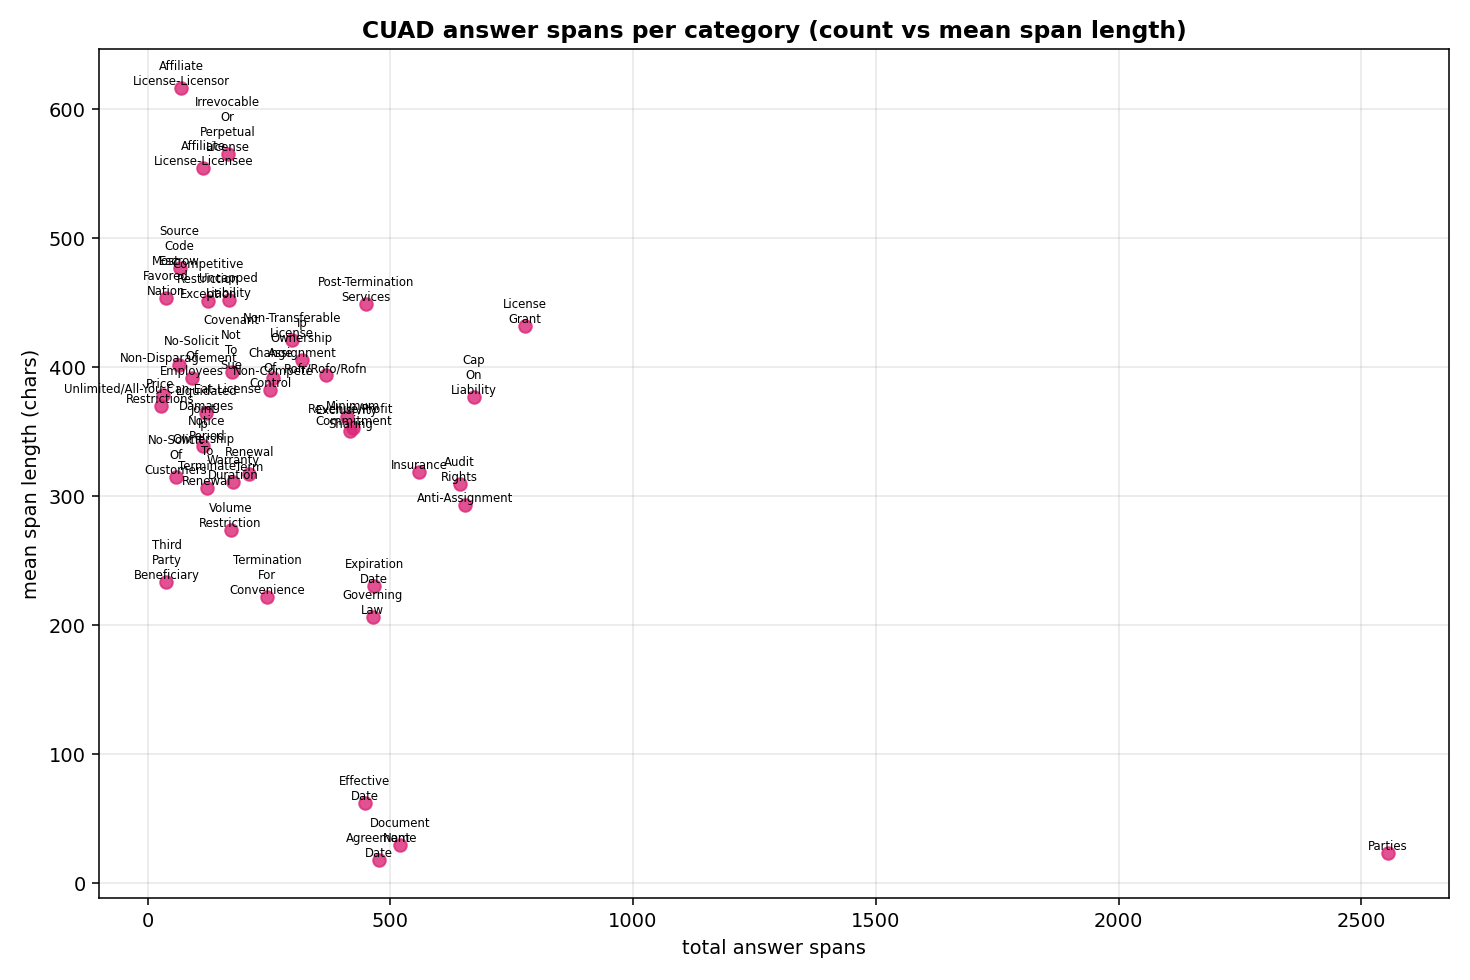
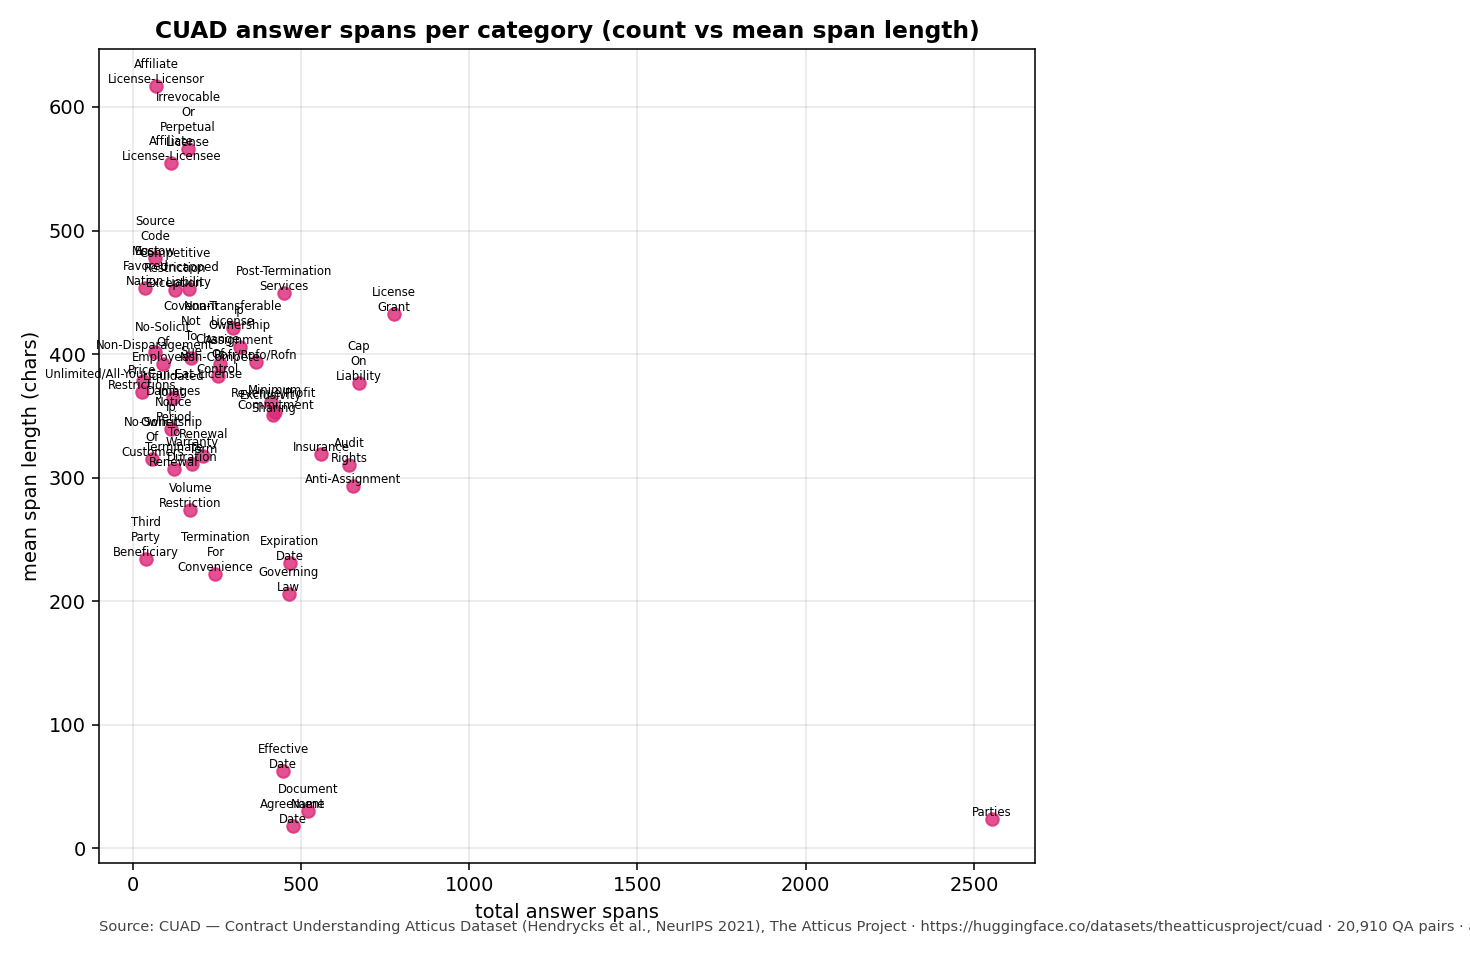
CHORE (KANBAN-014 follow-on): EDA figures 01-10 regenerated with CUAD dataset citations
- explore_cuad.py: _add_citation() footer (CUAD, Hendrycks et al., NeurIPS 2021,
  theatticusproject/cuad) on every figure; figure 01 retitled 'CUAD contract
  subclass distribution (25-family taxonomy, n=509)' + per-bar count labels
- self-contained data paths: CUAD_JSON prefers data/cuad_pdfs/CUAD_v1.json
  (sibling llm-mailroom path as fallback); subtype distribution reads verified
  experiment-log totals (SUBTYPE_FALLBACK, sums to 509) instead of the vanished
  subtype_distribution.json; figure 07 per-subtype lengths computed from
  aligned texts via title-derived 25-family matcher (503/510 matched)
- all 10 figures + data/eda/report.md regenerated (510/510 texts aligned);
  findings.md byte-identical (headline stats unchanged)
- CHANGELOG [Unreleased] entry added

diff --git a/scripts/eda/explore_cuad.py b/scripts/eda/explore_cuad.py
@@ -35,12 +35,83 @@ matplotlib.use("Agg")
 import matplotlib.pyplot as plt  # noqa: E402
 import numpy as np  # noqa: E402
 
-from src.cuad_ground_truth import CUAD_CATEGORIES  # noqa: E402
+from src.cuad_ground_truth import (  # noqa: E402
+    CUAD_CATEGORIES,
+    SUBTYPE_CUAD_FOLDERS,
+)
+from agents.sorter_agent import CONTRACT_SUBTYPES  # noqa: E402
 
 OUT = Path("data/eda")
 FIG = OUT / "figures"
-CUAD_JSON = Path("../llm-mailroom/data/cuad/CUAD_v1.json")
-SUBTYPE_JSON = Path("../llm-mailroom/data/cuad/subtype_distribution.json")
+# Repo-local corpus paths (`data/cuad_pdfs/` per its README — gitignored),
+# with the llm-mailroom mirror as fallback when the sibling repo is present.
+CUAD_JSON = Path("data/cuad_pdfs/CUAD_v1.json")
+CUAD_JSON_FALLBACK = Path("../llm-mailroom/data/cuad/CUAD_v1.json")
+
+# Dataset citation footer for every figure (KANBAN-014 follow-on).
+CUAD_CITE = ("Source: CUAD — Contract Understanding Atticus Dataset "
+             "(Hendrycks et al., NeurIPS 2021), The Atticus Project · "
+             "https://huggingface.co/datasets/theatticusproject/cuad")
+
+# Title -> 25-family subtype matcher for the per-subtype length stats. Patterns
+# are built from the taxonomy's CUAD folder names (`SUBTYPE_CUAD_FOLDERS`),
+# each family's `CONTRACT_SUBTYPES` label, and observed CUAD title variants;
+# longest match wins so multi-family titles route to the most specific family.
+_SUBTYPE_PATTERNS: dict[str, list[str]] = {}
+for _s in CONTRACT_SUBTYPES:
+    _key, _label = _s["key"], _s["label"]
+    _pats = [p.replace("_", " ") for p in SUBTYPE_CUAD_FOLDERS.get(_key, [])]
+    _pats += [_label]
+    if _key == "ip":
+        _pats += ["Intellectual Property"]
+    if _key == "joint_venture":
+        _pats += ["Joint Filing"]
+    if _key == "collaboration":
+        _pats += ["Cooperation"]
+    if _key == "non_compete_no_solicit":
+        _pats += ["Non-Compete", "No-Solicit", "Non-Disparagement"]
+    _SUBTYPE_PATTERNS[_key] = sorted({p for p in _pats if len(p) >= 6},
+                                     key=len, reverse=True)
+
+
+def _norm_pat(s: str) -> str:
+    return re.sub(r"[^a-z0-9]+", " ", s.lower())
+
+
+def _subtype_from_title(title: str) -> str | None:
+    """Best-effort 25-family subtype for a CUAD title (longest match wins)."""
+    t = _norm_pat(title)
+    best_key, best_len = None, 0
+    for key, pats in _SUBTYPE_PATTERNS.items():
+        for p in pats:
+            np_ = _norm_pat(p)
+            if np_ in t and len(np_) > best_len:
+                best_key, best_len = key, len(np_)
+    return best_key
+
+
+def _add_citation(fig, ax, note: str = "") -> None:
+    """Footer dataset citation on a figure (drawn below the axes)."""
+    txt = CUAD_CITE + (f" · {note}" if note else "")
+    ax.text(0, -0.07, txt, transform=ax.transAxes, fontsize=7.5,
+            color="#444", va="top")
+    fig.tight_layout(rect=[0, 0.03, 1, 1])
+
+# Ground-truth CUAD contract subclass counts (mailroom 25-family taxonomy) for
+# the 509-contract eval corpus (`mailroom-cuad-contracts-full`), derived from
+# the experiment-log per-subtype totals (sums to 509, verified). Used by
+# figure 01 and the report's corpus-composition table — the original
+# taxonomy-derived `subtype_distribution.json` no longer exists in either repo.
+SUBTYPE_FALLBACK = {
+    "maintenance": 34, "license": 33, "distributor": 32,
+    "strategic_alliance": 32, "sponsorship": 31, "development": 28,
+    "service": 28, "collaboration": 26, "endorsement": 24,
+    "joint_venture": 23, "co_branding": 22, "hosting": 20,
+    "outsourcing": 18, "supply": 18, "ip": 17, "manufacturing": 17,
+    "marketing": 17, "franchise": 15, "agency": 13,
+    "transportation": 13, "promotion": 12, "reseller": 12,
+    "consulting": 11, "affiliate": 10, "non_compete_no_solicit": 3,
+}
 
 PALETTE = ["#2563eb", "#7c3aed", "#db2777", "#059669", "#d97706", "#dc2626",
            "#0891b2", "#65a30d", "#9333ea", "#ea580c"]
@@ -68,15 +139,11 @@ BUDGETS = {"25k (small)": 25_000, "90k (chunk window)": 90_000,
 
 
 def _load_cuad() -> list[dict]:
-    if not CUAD_JSON.exists():
-        raise SystemExit(f"CUAD_v1.json not found at {CUAD_JSON}")
-    return json.load(open(CUAD_JSON))["data"]
-
-
-def _load_subtype_dist() -> dict:
-    if not SUBTYPE_JSON.exists():
-        raise SystemExit(f"subtype_distribution.json not found at {SUBTYPE_JSON}")
-    return json.load(open(SUBTYPE_JSON))
+    path = CUAD_JSON if CUAD_JSON.exists() else CUAD_JSON_FALLBACK
+    if not path.exists():
+        raise SystemExit(f"CUAD_v1.json not found at {CUAD_JSON} "
+                         f"(or {CUAD_JSON_FALLBACK})")
+    return json.load(open(path))["data"]
 
 
 def _load_full_texts() -> list[dict]:
@@ -109,7 +176,6 @@ def _category_from_question(q: str) -> str:
 
 def analyze() -> dict:
     docs = _load_cuad()
-    dist = _load_subtype_dist()
     cat_stats: dict[str, dict] = {
         c: {"yes_docs": 0, "answers": 0, "span_len": []} for c in CUAD_CATEGORIES
     }
@@ -206,8 +272,22 @@ def analyze() -> dict:
             denom = min(cat_stats[a]["yes_docs"], cat_stats[b]["yes_docs"])
             coocc_norm[a][b] = coocc[a][b] / denom if denom else 0.0
 
-    # per-subtype length table (median/min/max chars) from the taxonomy file
-    per_subtype = dist.get("per_subtype", {})
+    # per-subtype text-length table (median/min/max chars) from the aligned
+    # texts, grouped by the title-derived 25-family subtype (KANBAN-014
+    # follow-on; replaces the removed taxonomy-JSON dependency).
+    per_subtype_raw: dict[str, list[int]] = {}
+    for i, t in enumerate(texts):
+        sub = _subtype_from_title(titles[i])
+        if sub and t:
+            per_subtype_raw.setdefault(sub, []).append(len(t))
+    per_subtype: dict[str, dict] = {
+        k: {"count": len(v), "median_chars": int(np.median(v)),
+            "min_chars": min(v), "max_chars": max(v)}
+        for k, v in per_subtype_raw.items()
+    }
+    print(f"[info] subtype assigned for "
+          f"{sum(len(v) for v in per_subtype_raw.values())}/{len(docs)} "
+          f"contracts via title matching")
 
     return {
         "n_docs": len(docs), "n_qa": n_qa,
@@ -218,6 +298,7 @@ def analyze() -> dict:
         "redacted_text": redacted_text, "redact_hits": redact_hits,
         "redacted_titles": redacted_titles,
         "coocc": coocc, "coocc_norm": coocc_norm,
+        "subtype_dist": SUBTYPE_FALLBACK,
         "per_subtype": per_subtype,
     }
 
@@ -234,17 +315,22 @@ def make_figures(res: dict) -> None:
                          "axes.titleweight": "bold", "figure.facecolor": "white"})
     n = res["n_docs"]
 
-    # 1. Subtype distribution (from the taxonomy-derived distribution json)
-    dist = _load_subtype_dist()["distribution"]
-    items = sorted(dist.items(), key=lambda kv: -kv[1])
-    names = [k for k, _ in items][:25]
-    vals = [v for _, v in items][:25]
+    # 1. CUAD contract subclass distribution (mailroom 25-family taxonomy)
+    #    Data: ground-truth subtype counts of the 509-contract eval corpus
+    #    (`mailroom-cuad-contracts-full`, experiment-log per-subtype totals).
+    dist = res["subtype_dist"]
+    items = sorted(dist.items(), key=lambda kv: -kv[1])[:25]
+    names = [k for k, _ in items]
+    vals = [v for _, v in items]
     fig, ax = plt.subplots(figsize=(11, 5.5))
     ax.barh(names[::-1], vals[::-1], color=PALETTE[0], edgecolor="white")
-    ax.set_title("Contract subtype distribution (mailroom 25-family taxonomy)")
+    for y, v in enumerate(vals[::-1]):
+        ax.text(v + 0.4, y, str(v), va="center", fontsize=7, color="#333")
+    ax.set_title("CUAD contract subclass distribution "
+                 f"(25-family taxonomy, n={sum(vals)})")
     ax.set_xlabel("contracts")
     ax.grid(axis="x", alpha=0.3)
-    fig.tight_layout()
+    _add_citation(fig, ax, "n=509 contracts in the eval corpus")
     fig.savefig(FIG / "01_subtype_distribution.png", dpi=140)
     plt.close(fig)
 
@@ -257,7 +343,7 @@ def make_figures(res: dict) -> None:
         ax.set_xlabel("chars (thousands)")
         ax.set_ylabel("contracts")
         ax.grid(axis="y", alpha=0.3)
-        fig.tight_layout()
+        _add_citation(fig, ax, "510 contracts · CUAD_v1.json paragraph contexts")
         fig.savefig(FIG / "02_text_length_hist.png", dpi=140)
         plt.close(fig)
 
@@ -272,7 +358,7 @@ def make_figures(res: dict) -> None:
     ax.set_title(f"CUAD category presence rate across {n} contracts (top 24)")
     ax.set_xlabel("share of contracts where the category is labeled YES")
     ax.grid(axis="x", alpha=0.3)
-    fig.tight_layout()
+    _add_citation(fig, ax, "annotator YES labels across the 41 clause categories")
     fig.savefig(FIG / "03_category_yes_rates.png", dpi=140)
     plt.close(fig)
 
@@ -291,7 +377,7 @@ def make_figures(res: dict) -> None:
     ax.set_xlabel("total answer spans")
     ax.set_ylabel("mean span length (chars)")
     ax.grid(alpha=0.3)
-    fig.tight_layout()
+    _add_citation(fig, ax, "20,910 QA pairs · answer-span annotations")
     fig.savefig(FIG / "04_category_spans.png", dpi=140)
     plt.close(fig)
 
@@ -306,7 +392,7 @@ def make_figures(res: dict) -> None:
     ax.set_ylabel("contracts")
     ax.legend()
     ax.grid(axis="y", alpha=0.3)
-    fig.tight_layout()
+    _add_citation(fig, ax, "answer spans per contract · all 41 categories")
     fig.savefig(FIG / "05_spans_per_doc.png", dpi=140)
     plt.close(fig)
 
@@ -321,7 +407,7 @@ def make_figures(res: dict) -> None:
     ax.set_ylabel("contracts")
     ax.tick_params(axis="x", rotation=45)
     ax.grid(axis="y", alpha=0.3)
-    fig.tight_layout()
+    _add_citation(fig, ax, "SEC exhibit tags parsed from the 510 document titles")
     fig.savefig(FIG / "06_filing_types.png", dpi=140)
     plt.close(fig)
 
@@ -344,7 +430,7 @@ def make_figures(res: dict) -> None:
         ax.set_xlabel("chars (thousands)")
         ax.legend(loc="lower right")
         ax.grid(axis="x", alpha=0.3)
-        fig.tight_layout()
+        _add_citation(fig, ax, "title-derived 25-family subtype grouping")
         fig.savefig(FIG / "07_subtype_lengths.png", dpi=140)
         plt.close(fig)
 
@@ -366,7 +452,7 @@ def make_figures(res: dict) -> None:
     ax.set_title("Restriction-family co-occurrence (share of the less-common "
                  "category's docs that also carry the other)")
     fig.colorbar(im, shrink=0.75, label="co-occurrence (normalized)")
-    fig.tight_layout()
+    _add_citation(fig, ax, "10 restriction-family categories · YES-label co-presence")
     fig.savefig(FIG / "08_restriction_cooccurrence.png", dpi=140)
     plt.close(fig)
 
@@ -383,7 +469,7 @@ def make_figures(res: dict) -> None:
         ax.set_xlabel("chars (thousands)")
         ax.set_ylabel("contracts")
         ax.grid(axis="y", alpha=0.3)
-        fig.tight_layout()
+        _add_citation(fig, ax, "pipeline input budgets vs the 510-doc text corpus")
         fig.savefig(FIG / "09_length_budgets.png", dpi=140)
         plt.close(fig)
 
@@ -398,7 +484,7 @@ def make_figures(res: dict) -> None:
         ax.set_xlabel("chars (thousands)")
         ax.set_ylabel("spans per 1k chars")
         ax.grid(alpha=0.3)
-        fig.tight_layout()
+        _add_citation(fig, ax, "span annotations vs text length, per contract")
         fig.savefig(FIG / "10_density_vs_length.png", dpi=140)
         plt.close(fig)
 
@@ -423,7 +509,7 @@ def render_report(res: dict) -> str:
                  f"(~{tk[len(tk)//2]:,} tokens median by chars/4)\n")
 
     L.append("## 1. Corpus composition\n")
-    dist = _load_subtype_dist()["distribution"]
+    dist = res["subtype_dist"]
     L.append("| subtype | contracts | share |\n|---|---|---|")
     for k, v in sorted(dist.items(), key=lambda kv: -kv[1]):
         L.append(f"| `{k}` | {v} | {v/n:.1%} |")

diff --git a/CHANGELOG.md b/CHANGELOG.md
@@ -26,6 +26,7 @@ history of the repository's tags. Format follows
 - **llama-4-scout × contracts_specialist_v31 extraction — cheap model collapses on structured extraction** — full-509 chunked extraction eval on the champion prompt `contracts_specialist_v31` (90k/8k windows, temp 0.1, reasoning none, `--research-funding-key`, manifest `data/manifests/llama4scout_v31_510_chunked_full.jsonl`) with **`meta-llama/llama-4-scout`**: **overall 0.6968 vs the qwen3.7-flash champion 0.8737 = −17.7pp** (509/509, 0 errors, 10.34M tokens). The model is classification-capable (0.888 on the sorter) but collapses on structured extraction: **key_obligations recall 0.259 / exact 0.048** (span-count signed mean −4.06 → under-extraction), **term_length exact 0.078** (date MAE 1,643 days, R² −4.04 → containment collapse), renewal_terms exact 0.292, termination_clauses exact 0.714. Verdict: cost-floor arm only — does NOT approach the champion on extraction. Run `llama-4-scout_contracts_specialist_v31_extraction_langfuse`.
 
 ### Changed
+- **EDA figures regenerated with CUAD dataset citations + self-contained data paths (KANBAN-014 follow-on)** — `scripts/eda/explore_cuad.py` renders a **dataset citation footer on every figure** via a shared `_add_citation()` helper ("Source: CUAD — Contract Understanding Atticus Dataset (Hendrycks et al., NeurIPS 2021), The Atticus Project · huggingface.co/datasets/theatticusproject/cuad" + per-figure source notes), and figure 01 is retitled **"CUAD contract subclass distribution (25-family taxonomy, n=509)"** with per-bar count labels. The script is now **self-contained**: `CUAD_JSON` prefers the repo-local `data/cuad_pdfs/CUAD_v1.json` (gitignored corpus, sibling llm-mailroom path kept as fallback); the subtype distribution (figure 01 + report composition table) reads the **verified experiment-log per-subtype totals** (`SUBTYPE_FALLBACK`, sums to 509) instead of the vanished `subtype_distribution.json`; figure 07's per-subtype text-length stats are computed from the aligned corpus texts grouped by a **title-derived 25-family matcher** (longest-pattern-wins; patterns from `SUBTYPE_CUAD_FOLDERS` + `CONTRACT_SUBTYPES` labels; 503/510 contracts matched). All 10 figures + `data/eda/report.md` regenerated (510/510 texts aligned, 509 from the synced full corpus); `data/eda/findings.md` byte-identical (headline stats unchanged). Requires `data/cuad_pdfs/CUAD_v1.json` (40 MB, `scripts/datasets/download_cuad_pdfs.py`).
 - **Sorter v13 model sweep — complete verified table (7 models, KANBAN-036 reconciliation)** — every model evaluated on the champion `sorter_v13` prompt (full-509, seed 42, temp 0.1, reasoning medium, 509/509 rows, 0 errors), reconciled against `reports/experiment_log.jsonl` with the strict subtype_accuracy + percentile-bootstrap CI: **`deepseek/deepseek-v4-pro` 0.9528** (equiv 0.9548, 24 fails, CI [0.9332, 0.9705]) — the only model to beat the champion; **`qwen/qwen3.7-flash` 0.9430** (champion, 0.9470, 29, [0.9214, 0.9627]); **`deepseek/deepseek-v4-flash` 0.9332** (0.9352, 34, [0.9096, 0.9528]); **`openai/gpt-5-nano` 0.8978** (0.9018, 52, [0.8703, 0.9234]); **`meta-llama/llama-3.3-70b-instruct` 0.8900** (0.9116, 56, [0.8625, 0.9175]); **`meta-llama/llama-4-scout` 0.8880** (0.9077, 57, [0.8605, 0.9136]); **`openai/gpt-4.1-nano` 0.8782** (0.8959, 62, [0.8487, 0.9057]). Corrections vs the earlier per-arm entries: **deepseek-v4-flash canonical is 0.9332** (the clean @06:38 rerun), not 0.9253 (the first @05:44 run — both are clean 509/509, the first is superseded); **llama-4-scout 0.8880 was previously omitted** from the sweep summaries (KANBAN-041's "no llama sorter runs" claim is superseded); **llama-3.3-70b-instruct ran twice** (0.8900 @06:54 → 0.8782 @10:51 duplicate; canonical 0.8900); **gpt-4.1-nano is complete at 0.8782**, not "pending". Cross-model significance is NOT claimed — the ±0.006 noise band was measured on identical-prompt qwen reruns, so a cross-model delta needs its own noise-floor control. The sweep workbook (`reports/sheets/Sorter_Model_Sweep_Results.xlsx`) still needs a regen to cover all 7 models (llama-4-scout + gpt-4.1-nano full-509 are absent).
 - **Eval-run tracing: Langfuse PRIMARY, local Arize Phoenix server as fallback (human directive 2026-08-16)** — new `src/tracing.py::resolve_tracer()` flips the previous Phoenix-first default for all four `run_langfuse_*_eval.py` runners (docclass, subtype, extraction, chained): each run traces to **Langfuse** (llm-dojo project, keys in `langfuse.env`) whenever its keys are configured, and **falls back to the local Phoenix OpenTelemetry server** when Langfuse is unavailable — never silently untraced. The resolver returns `(tracer, tracing_backend, tracing_meta)` so the dry-run label, manifest header, and experiment-log record all report the REAL backend (the manifest/resolver ordering was fixed so the checkpoint header records the resolved backend; previously-hardcoded "langfuse" backends in extraction/chained now resolve dynamically). `prefer="phoenix"` preserves the old order for explicit opt-in. Verified live: full-676 docclass runs trace to llm-dojo (`tracing_backend=langfuse` in the records). Tests `tests/test_tracing.py` (selection order + fallback + record metadata, network-free). Also fixes the langfuse subtype smoke's environment gap (it previously selected Phoenix when PHOENIX_TRACING was unset; the Langfuse-primary default now exercises the stub as intended).
 - **Adaptive eval-runner concurrency + rate-limit retry (speed/efficiency)** — new shared helpers in `src/evaluation.py`: `resolve_concurrency()` scales the worker pool with the sample size (auto = `min(32, max(1, min(8 + ceil(n/25), n)))` — 30 rows → 10 workers, 200 → 16, 676 → 32 — until diminishing returns / provider rate limits; explicit `--max-concurrency N` still wins) and `call_with_rate_limit_retry()` retries transient 429/rate-limit errors with exponential backoff + jitter (KANBAN-024's qwen-via-Alibaba burst shape). Wired into the four `run_langfuse_*_eval.py` runners (docclass, subtype, extraction, chained): `--max-concurrency` defaults to AUTO, the effective worker count + `rate_limit_retries` are recorded in each experiment-log record. 4 new unit tests (`test_resolve_concurrency_*`, `test_rate_limit_retry_*`).

diff --git a/data/eda/report.md b/data/eda/report.md
@@ -10,22 +10,22 @@
 |---|---|---|
 | `maintenance` | 34 | 6.7% |
 | `license` | 33 | 6.5% |
-| `development` | 33 | 6.5% |
 | `distributor` | 32 | 6.3% |
-| `service` | 32 | 6.3% |
 | `strategic_alliance` | 32 | 6.3% |
-| `sponsorship` | 30 | 5.9% |
+| `sponsorship` | 31 | 6.1% |
+| `development` | 28 | 5.5% |
+| `service` | 28 | 5.5% |
 | `collaboration` | 26 | 5.1% |
 | `endorsement` | 24 | 4.7% |
 | `joint_venture` | 23 | 4.5% |
 | `co_branding` | 22 | 4.3% |
-| `hosting` | 19 | 3.7% |
+| `hosting` | 20 | 3.9% |
 | `outsourcing` | 18 | 3.5% |
-| `supply` | 17 | 3.3% |
+| `supply` | 18 | 3.5% |
+| `ip` | 17 | 3.3% |
 | `manufacturing` | 17 | 3.3% |
+| `marketing` | 17 | 3.3% |
 | `franchise` | 15 | 2.9% |
-| `ip` | 15 | 2.9% |
-| `marketing` | 13 | 2.5% |
 | `agency` | 13 | 2.5% |
 | `transportation` | 13 | 2.5% |
 | `promotion` | 12 | 2.4% |
@@ -33,7 +33,6 @@
 | `consulting` | 11 | 2.2% |
 | `affiliate` | 10 | 2.0% |
 | `non_compete_no_solicit` | 3 | 0.6% |
-| `other` | 1 | 0.2% |
 
 ## 2. Filing context
 
@@ -66,29 +65,27 @@
 |---|---|---|---|---|
 | `agency` | 13 | 121,559 | 3,886 | 161,626 |
 | `franchise` | 15 | 116,873 | 2,974 | 300,768 |
-| `promotion` | 12 | 70,383 | 10,553 | 175,580 |
-| `outsourcing` | 18 | 58,860 | 1,952 | 338,211 |
-| `ip` | 15 | 56,509 | 5,046 | 155,463 |
-| `collaboration` | 26 | 54,866 | 2,811 | 335,282 |
-| `transportation` | 13 | 52,008 | 6,088 | 229,670 |
-| `supply` | 17 | 49,915 | 5,713 | 188,674 |
-| `co_branding` | 22 | 47,639 | 857 | 114,759 |
-| `manufacturing` | 17 | 45,846 | 1,742 | 225,094 |
-| `strategic_alliance` | 32 | 45,033 | 5,712 | 122,054 |
-| `reseller` | 12 | 45,002 | 2,935 | 117,478 |
-| `development` | 33 | 43,803 | 6,390 | 291,873 |
-| `hosting` | 19 | 37,351 | 1,660 | 161,066 |
-| `distributor` | 32 | 36,275 | 4,567 | 175,770 |
-| `marketing` | 13 | 34,740 | 17,300 | 221,382 |
-| `maintenance` | 34 | 33,577 | 1,707 | 233,248 |
-| `affiliate` | 10 | 27,015 | 14,083 | 109,014 |
-| `sponsorship` | 30 | 26,753 | 4,066 | 96,662 |
-| `license` | 33 | 25,060 | 1,902 | 159,488 |
-| `endorsement` | 24 | 24,223 | 3,456 | 68,204 |
-| `service` | 32 | 24,151 | 3,860 | 289,615 |
+| `promotion` | 12 | 64,014 | 10,553 | 175,580 |
+| `ip` | 16 | 56,683 | 5,046 | 155,463 |
+| `transportation` | 12 | 50,613 | 6,088 | 229,670 |
+| `collaboration` | 26 | 50,175 | 2,811 | 335,282 |
+| `supply` | 21 | 49,915 | 5,713 | 188,674 |
+| `outsourcing` | 18 | 49,361 | 1,952 | 338,211 |
+| `co_branding` | 23 | 47,639 | 857 | 114,759 |
+| `development` | 30 | 45,029 | 6,390 | 291,873 |
+| `strategic_alliance` | 32 | 42,737 | 5,712 | 122,054 |
+| `manufacturing` | 14 | 41,030 | 1,742 | 225,094 |
+| `marketing` | 18 | 39,906 | 3,558 | 221,382 |
+| `reseller` | 12 | 38,873 | 2,935 | 117,478 |
+| `hosting` | 20 | 36,481 | 1,660 | 161,066 |
+| `distributor` | 31 | 36,275 | 6,320 | 175,770 |
+| `maintenance` | 34 | 32,920 | 1,707 | 233,248 |
+| `affiliate` | 10 | 26,565 | 14,083 | 109,014 |
+| `sponsorship` | 30 | 26,337 | 4,066 | 96,662 |
+| `license` | 31 | 25,060 | 1,902 | 159,488 |
+| `endorsement` | 24 | 22,068 | 3,456 | 68,204 |
+| `service` | 27 | 20,983 | 3,860 | 289,615 |
 | `consulting` | 11 | 20,805 | 12,020 | 33,425 |
-| `non_compete_no_solicit` | 3 | 16,402 | 3,493 | 22,700 |
-| `other` | 1 | 11,770 | 11,770 | 11,770 |
 | `joint_venture` | 23 | 3,971 | 645 | 95,181 |
 
 ## 5. Category presence (annotator YES rates)
